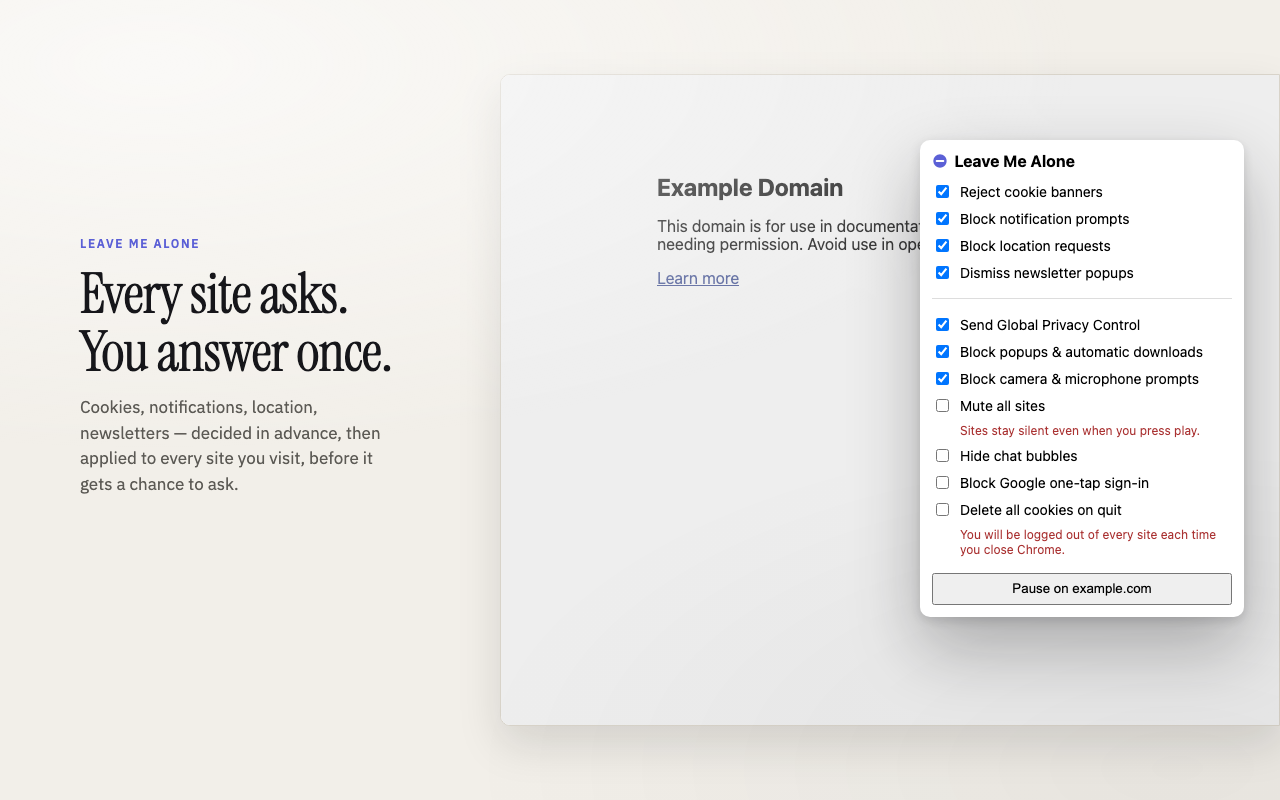
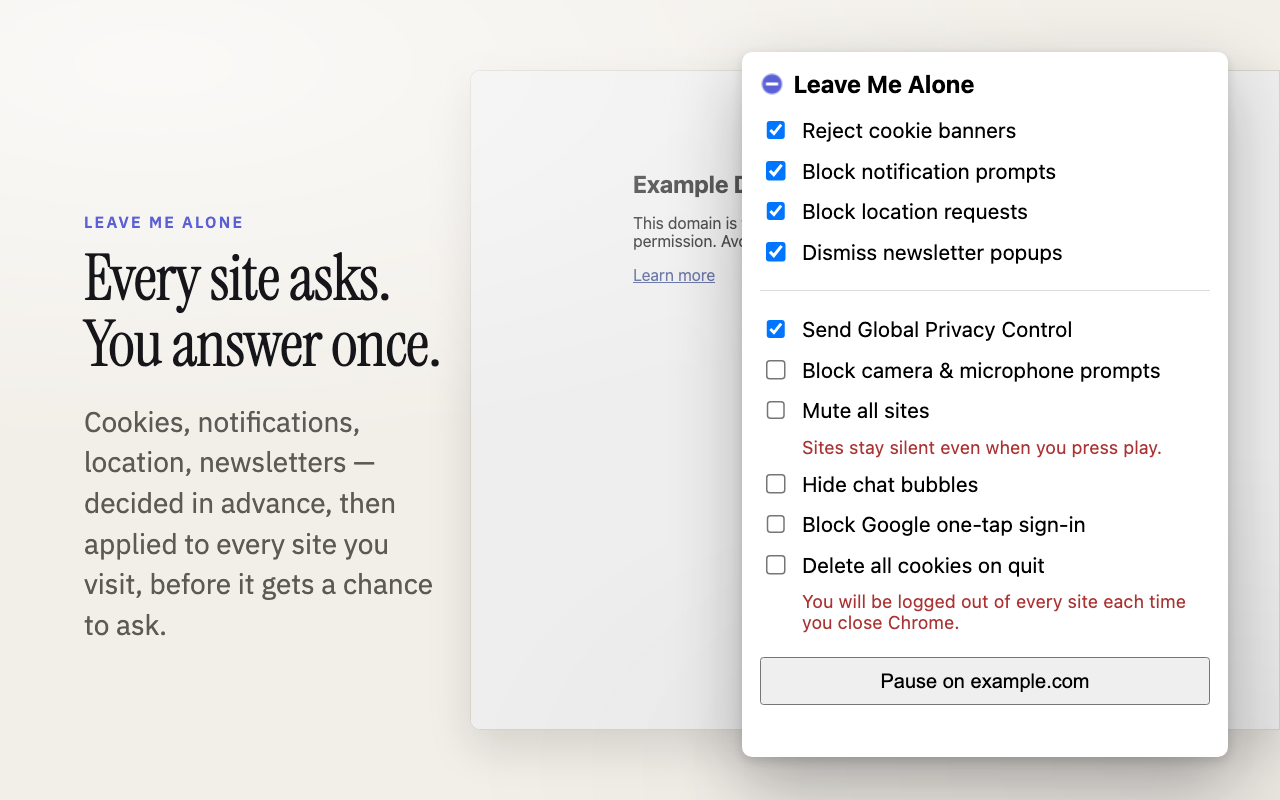
Regenerate store screenshots and promo tile for legibility
The Chrome Web Store shrinks a 1280x800 screenshot to roughly half width
in its carousel, and renders the 440x280 promo tile at ~340px on the
listing card, which turned the popup's real 14px UI, the marketing
paragraph copy, and the tile's tagline to mush. Size everything against
that downscaling instead: zoom the popup and demo iframes so their native
text renders large but crisp, roughly double the marketing type
(paragraph copy ~28px, eyebrows 16px), and enlarge and darken the tile
tagline. Verified legible at the sizes the store actually displays.

Rendering against the real dist/popup also drops the removed "Block popups
& automatic downloads" row and unchecks camera/mic, which now defaults off.

diff --git a/store/stages/stage3.html b/store/stages/stage3.html
@@ -2,12 +2,15 @@
 <meta charset="utf-8">
 <link rel="stylesheet" href="stage.css">
 <style>
-  .head { position: absolute; left: 80px; top: 62px; width: 1120px; z-index: 3; }
-  h1 { font-size: 44px; line-height: 1.05; margin: 10px 0 0; }
-  .sub { max-width: 62ch; font-size: 16px; }
-  .pane { position: absolute; top: 274px; width: 548px; height: 452px; }
-  .pane iframe { width: 548px; height: 452px; }
-  #before { left: 80px; }
+  /* Two zoomed crops side by side. Each iframe lays out at a 344px viewport
+     and is zoomed 1.6x, which both enlarges the modal's text and, because the
+     modal is width:min(26rem, 100vw-3rem), narrows it to fit the pane. */
+  .head { position: absolute; left: 84px; top: 54px; width: 1112px; z-index: 3; }
+  h1 { font-size: 46px; line-height: 1.04; margin: 12px 0 0; }
+  .sub { max-width: 74ch; font-size: 25px; line-height: 1.4; margin-top: 14px; }
+  .pane { position: absolute; top: 276px; width: 544px; height: 452px; }
+  .pane iframe { width: 340px; height: 282px; zoom: 1.6; }
+  #before { left: 84px; }
   #after  { left: 652px; }
 </style>
 
@@ -15,9 +18,8 @@
   <div class="eyebrow">Dismiss newsletter popups</div>
   <h1>Mailing-list popups, closed on the way in.</h1>
   <p class="sub">It acts only on an overlay that is collecting an address &mdash; an email
-     signup, or a phone field carrying SMS consent copy. Dismissed the way you would,
-     with its own close button, and the scroll lock it leaves behind is lifted too.
-     Sign-in, registration and checkout overlays are refused outright.</p>
+     signup, or a phone field carrying SMS consent copy. Sign-in, registration and
+     checkout overlays are refused outright.</p>
 </div>
 
 <div class="window pane" id="before">

diff --git a/store/stages/stage1.html b/store/stages/stage1.html
@@ -2,12 +2,17 @@
 <meta charset="utf-8">
 <link rel="stylesheet" href="stage.css">
 <style>
-  .copy { position: absolute; left: 80px; top: 236px; width: 384px; z-index: 3; }
-  h1 { font-size: 56px; line-height: 1.04; }
-  .window { position: absolute; left: 500px; top: 74px; width: 780px; height: 652px; border-radius: 10px 0 0 10px; }
-  .window iframe { width: 780px; height: 652px; }
-  .popup-shell { position: absolute; left: 920px; top: 140px; width: 324px; height: 477px; z-index: 4; }
-  .popup-shell iframe { width: 324px; height: 477px; }
+  /* The popup is the hero object. It is zoomed so its real 14px UI survives
+     the store shrinking a 1280px shot into a ~640px carousel; the inner
+     document still lays out at its true 324px width, so it is the shipping
+     popup, only larger. */
+  .copy { position: absolute; left: 84px; top: 212px; width: 620px; z-index: 3; }
+  h1 { font-size: 64px; line-height: 1.03; }
+  .sub { font-size: 28px; line-height: 1.45; max-width: 22ch; margin-top: 24px; }
+  .window { position: absolute; left: 470px; top: 70px; width: 810px; height: 660px; border-radius: 10px 0 0 10px; }
+  .window iframe { width: 810px; height: 660px; }
+  .popup-shell { position: absolute; left: 742px; top: 52px; z-index: 4; }
+  .popup-shell iframe { width: 324px; height: 470px; zoom: 1.5; }
 </style>
 
 <div class="copy">

diff --git a/store/stages/stage4.html b/store/stages/stage4.html
@@ -2,14 +2,17 @@
 <meta charset="utf-8">
 <link rel="stylesheet" href="stage.css">
 <style>
-  .copy { position: absolute; left: 742px; top: 244px; width: 458px; z-index: 3; }
-  h1 { font-size: 50px; line-height: 1.04; }
-  .sub { max-width: 34ch; }
-  .window { position: absolute; left: 40px; top: 74px; width: 648px; height: 652px;
+  /* Paused state. The popup is taller here (it grows a status banner), so the
+     zoom is a touch gentler than the hero's to keep the whole thing on the
+     canvas. */
+  .copy { position: absolute; left: 726px; top: 214px; width: 486px; z-index: 3; }
+  h1 { font-size: 54px; line-height: 1.03; }
+  .sub { font-size: 26px; line-height: 1.42; max-width: 22ch; margin-top: 22px; }
+  .window { position: absolute; left: 30px; top: 70px; width: 660px; height: 660px;
             border-radius: 0 10px 10px 0; }
-  .window iframe { width: 648px; height: 652px; }
-  .popup-shell { position: absolute; left: 206px; top: 110px; width: 324px; height: 578px; z-index: 4; }
-  .popup-shell iframe { width: 324px; height: 578px; }
+  .window iframe { width: 660px; height: 660px; }
+  .popup-shell { position: absolute; left: 150px; top: 40px; z-index: 4; }
+  .popup-shell iframe { width: 324px; height: 548px; zoom: 1.34; }
 </style>
 
 <!-- Deliberately the untouched demo page: a paused site is one the extension

diff --git a/store/stages/stage2.html b/store/stages/stage2.html
@@ -2,13 +2,17 @@
 <meta charset="utf-8">
 <link rel="stylesheet" href="stage.css">
 <style>
-  .head { position: absolute; left: 80px; top: 56px; width: 1120px; z-index: 3; }
-  h1 { font-size: 42px; line-height: 1.05; margin: 10px 0 0; }
-  .sub { max-width: 64ch; font-size: 16px; }
-  .band { left: 80px; width: 1120px; height: 246px; position: absolute; }
-  .band iframe { width: 1120px; height: 246px; }
-  #before { top: 268px; }
-  #after  { top: 538px; }
+  /* Each band shows a zoomed crop of the real demo page: the iframe lays out
+     at a narrow 700px viewport and is zoomed 1.6x, so the consent bar's own
+     14px text lands at ~22px in the shot and stays readable once the store
+     shrinks it. */
+  .head { position: absolute; left: 84px; top: 48px; width: 1112px; z-index: 3; }
+  h1 { font-size: 46px; line-height: 1.04; margin: 12px 0 0; }
+  .sub { max-width: 74ch; font-size: 25px; line-height: 1.4; margin-top: 14px; }
+  .band { left: 84px; width: 1112px; height: 258px; position: absolute; }
+  .band iframe { width: 695px; height: 161px; zoom: 1.6; }
+  #before { top: 250px; }
+  #after  { top: 528px; }
 </style>
 
 <div class="head">

diff --git a/store/stages/tile.html b/store/stages/tile.html
@@ -7,10 +7,14 @@
      no more: mark, name, one claim. */
   .wrap { position: absolute; inset: 0; display: grid; align-content: center;
           justify-items: center; text-align: center; gap: 2px; z-index: 3; }
-  img { width: 56px; height: 56px; margin-bottom: 12px; }
-  h1 { font-size: 42px; line-height: 1; margin: 0; }
-  p { margin: 12px 0 0; font-size: 14px; color: var(--ink-soft); letter-spacing: .01em; }
-  .rule { width: 44px; height: 2px; background: var(--accent); margin-top: 16px; }
+  img { width: 58px; height: 58px; margin-bottom: 12px; }
+  h1 { font-size: 44px; line-height: 1; margin: 0; }
+  /* The store renders this 440x280 tile at roughly 340px on the listing card,
+     so the tagline is sized up and darkened to stay readable there — the old
+     14px --ink-soft line was the part that vanished. It wraps to two lines. */
+  p { margin: 14px 0 0; font-size: 20px; line-height: 1.3; color: var(--ink);
+      max-width: 250px; }
+  .rule { width: 44px; height: 2px; background: var(--accent); margin-top: 18px; }
 </style>
 <div class="wrap">
   <img src="/ext/icons/active-128.png" alt="">

diff --git a/store/stages/stage.css b/store/stages/stage.css
@@ -36,8 +36,13 @@ body::after {
     radial-gradient(90% 70% at 92% 96%, rgba(22,22,26,.055), transparent 62%);
 }
 
+/* Sizes here are chosen against the store, not the file: the listing shrinks
+   the whole 1280x800 shot to roughly half width in its carousel, so every
+   size below is about twice what it would be in a page meant to be read at
+   1:1. Anything under ~22px in this frame is illegible once the store is done
+   with it. */
 .eyebrow {
-  font-size: 12px; font-weight: 600; letter-spacing: .14em;
+  font-size: 16px; font-weight: 600; letter-spacing: .14em;
   text-transform: uppercase; color: var(--accent);
 }
 
